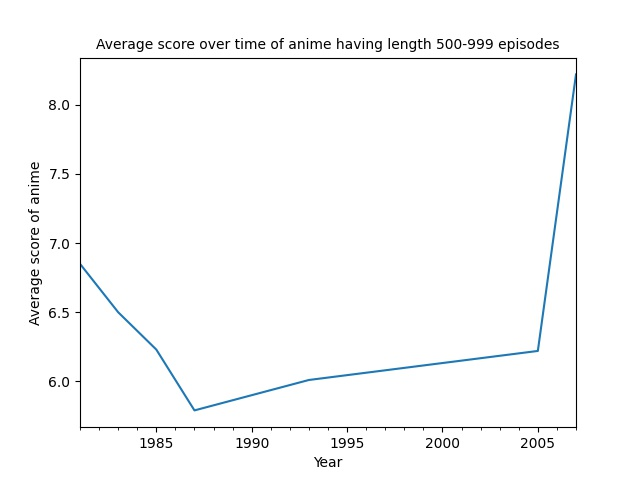
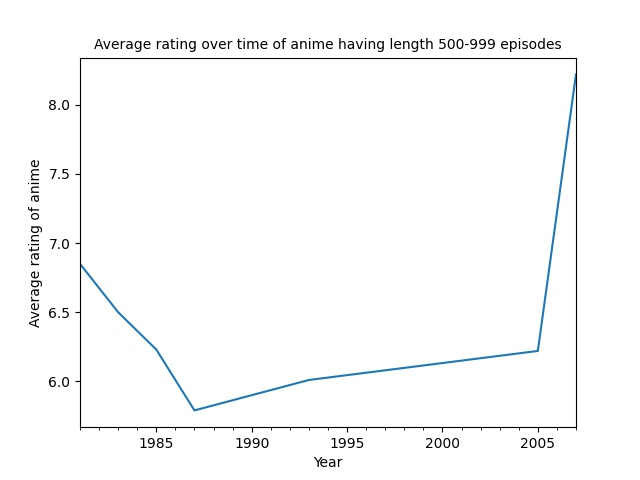
Axis labels update

Changed region(s): [[0.1562, 0.0625, 0.875, 0.125], [0.0312, 0.3438, 0.0625, 0.6875]]

diff --git a/length_of_anime_trends.py b/length_of_anime_trends.py
@@ -55,8 +55,8 @@ def find_trends(min_ep, max_ep, row_name):
     df_curr = df_curr.groupby(df_curr['start_date'].dt.to_period('Y'))['mean'].agg('mean')
     fig = df_curr.plot().get_figure()
     plt.xlabel('Year')
-    plt.ylabel('Average score of anime')
-    plt.title('Average score over time of anime (TV, ONA, Movie) having length '+row_name+' episodes', fontsize=10)
+    plt.ylabel('Average rating of anime')
+    plt.title('Average rating over time of anime (TV, ONA, Movie) having length '+row_name+' episodes', fontsize=10)
     # plt.gca().set_ylim([4, 8])
     fig.savefig('outputs/choosy-3-len-anime'+row_name+'.jpeg')
 
@@ -80,8 +80,8 @@ def find_trends(min_ep, max_ep, row_name):
     df_curr = df_curr.groupby(df_curr['start_date'].dt.to_period('Y'))['mean'].agg('mean')
     fig = df_curr.plot().get_figure()
     plt.xlabel('Year')
-    plt.ylabel('Average score of anime')
-    plt.title('Average score over time of anime having length '+row_name+' episodes', fontsize=10)
+    plt.ylabel('Average rating of anime')
+    plt.title('Average rating over time of anime having length '+row_name+' episodes', fontsize=10)
     # plt.gca().set_ylim([4, 8])
 
     fig.savefig('outputs/all-3-len-anime'+row_name+'.jpeg')

diff --git a/distribution_of_ratings.py b/distribution_of_ratings.py
@@ -65,8 +65,8 @@ fig = plt.figure()
 # creating the bar plot
 plt.bar([1, 2, 3, 4, 5, 6, 7, 8, 9, 10], num_scorers)
  
-plt.xlabel("Score")
-plt.ylabel("No. of scores")
-plt.title("Distribution of scores")
+plt.xlabel("Rating")
+plt.ylabel("No. of ratings")
+plt.title("Distribution of ratings")
 
 fig.savefig('outputs/distribution_of_scores.jpg')
